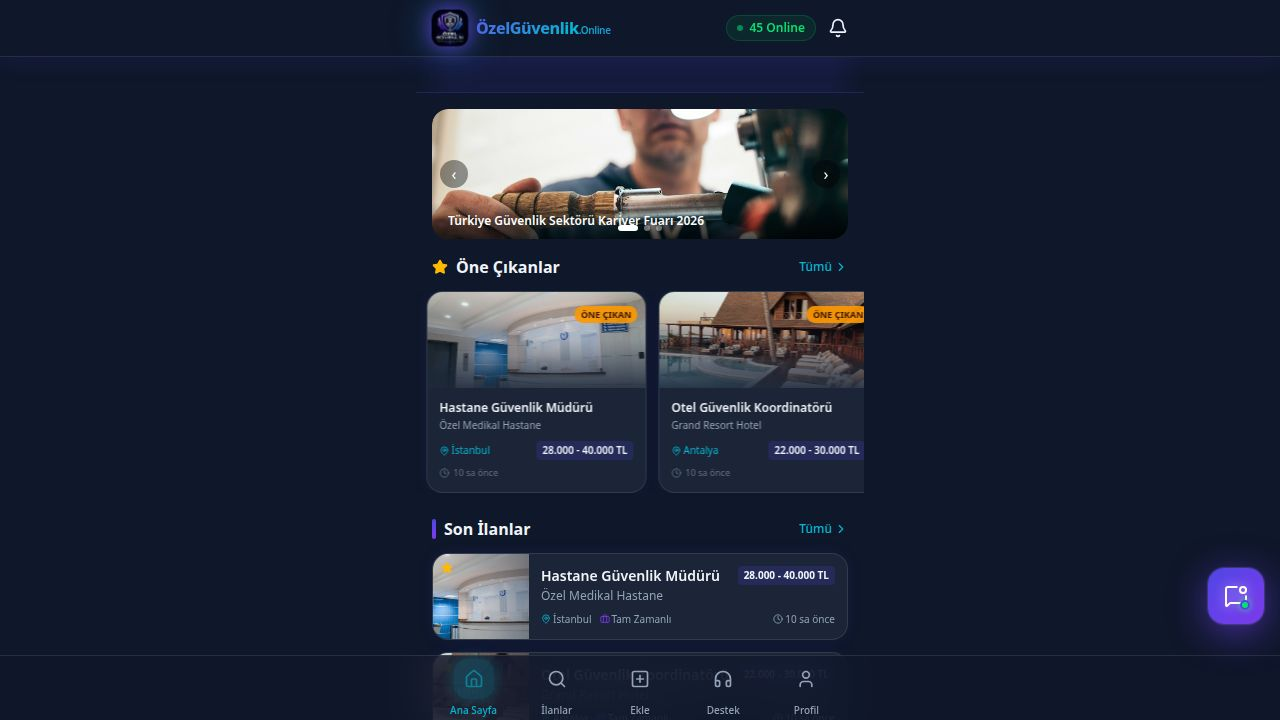
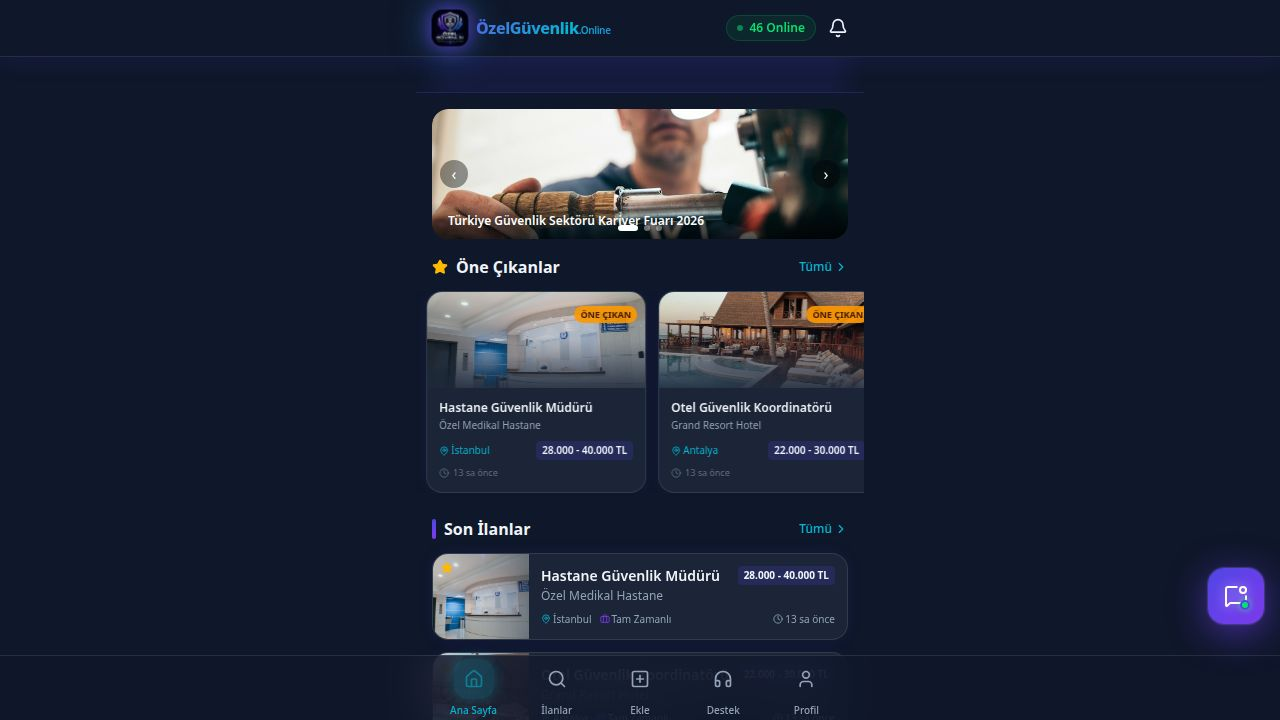
Improve PWA update behavior and automate service worker versioning
Update index.html to register service worker with updateViaCache: "none" and add logic to reload the page when SW_UPDATED message is received. Modify sw.js to use a dynamic cache version placeholder. Add a Vite plugin in vite.config.ts to inject the current timestamp into the service worker during development and build processes, ensuring automatic versioning and cache busting.

Replit-Commit-Author: Agent
Replit-Commit-Session-Id: 4cdea2e6-d00a-4730-9c5d-47da9fec826f
Replit-Commit-Checkpoint-Type: full_checkpoint
Replit-Commit-Event-Id: 1982fe15-26cf-4e11-bd79-f82715835c14
Replit-Commit-Screenshot-Url: https://storage.googleapis.com/screenshot-production-us-central1/65e8e92a-d1c8-454b-961b-f1bf0231ebd1/4cdea2e6-d00a-4730-9c5d-47da9fec826f/irlz9Zs
Replit-Helium-Checkpoint-Created: true

diff --git a/artifacts/ozel-guvenlik/vite.config.ts b/artifacts/ozel-guvenlik/vite.config.ts
@@ -2,6 +2,7 @@ import { defineConfig } from "vite";
 import react from "@vitejs/plugin-react";
 import tailwindcss from "@tailwindcss/vite";
 import path from "path";
+import fs from "node:fs";
 import runtimeErrorOverlay from "@replit/vite-plugin-runtime-error-modal";
 
 const rawPort = process.env.PORT;
@@ -26,9 +27,30 @@ if (!basePath) {
   );
 }
 
+const swVersionPlugin = {
+  name: "sw-version-inject",
+  configureServer(server: { middlewares: { use: (path: string, fn: (req: unknown, res: { setHeader: (k: string, v: string) => void; end: (s: string) => void }, next: () => void) => void) => void } }) {
+    server.middlewares.use("/sw.js", (_req, res) => {
+      const swPath = path.resolve(import.meta.dirname, "public/sw.js");
+      const content = fs.readFileSync(swPath, "utf-8").replace("__CACHE_VERSION__", Date.now().toString());
+      res.setHeader("Content-Type", "application/javascript");
+      res.setHeader("Cache-Control", "no-store, no-cache, must-revalidate");
+      res.end(content);
+    });
+  },
+  closeBundle() {
+    const outPath = path.resolve(import.meta.dirname, "dist/public/sw.js");
+    if (fs.existsSync(outPath)) {
+      const content = fs.readFileSync(outPath, "utf-8").replace("__CACHE_VERSION__", Date.now().toString());
+      fs.writeFileSync(outPath, content);
+    }
+  },
+};
+
 export default defineConfig({
   base: basePath,
   plugins: [
+    swVersionPlugin,
     react(),
     tailwindcss(),
     runtimeErrorOverlay(),

diff --git a/artifacts/ozel-guvenlik/public/sw.js b/artifacts/ozel-guvenlik/public/sw.js
@@ -1,14 +1,21 @@
-const CACHE_NAME = "ozelguvenlik-v5";
+const CACHE_NAME = "ozelguvenlik-__CACHE_VERSION__";
 const STATIC = ["/", "/manifest.json", "/icon-192.png", "/icon-512.png"];
 
 self.addEventListener("install", e => {
-  e.waitUntil(caches.open(CACHE_NAME).then(c => c.addAll(STATIC)).then(() => self.skipWaiting()));
+  e.waitUntil(
+    caches.open(CACHE_NAME)
+      .then(c => c.addAll(STATIC))
+      .then(() => self.skipWaiting())
+  );
 });
 
 self.addEventListener("activate", e => {
   e.waitUntil(
-    caches.keys().then(keys => Promise.all(keys.filter(k => k !== CACHE_NAME).map(k => caches.delete(k))))
+    caches.keys()
+      .then(keys => Promise.all(keys.filter(k => k !== CACHE_NAME).map(k => caches.delete(k))))
       .then(() => self.clients.claim())
+      .then(() => self.clients.matchAll({ type: "window" }))
+      .then(clients => clients.forEach(c => c.postMessage({ type: "SW_UPDATED" })))
   );
 });
 

diff --git a/artifacts/ozel-guvenlik/index.html b/artifacts/ozel-guvenlik/index.html
@@ -32,7 +32,16 @@
     <script>
       if ("serviceWorker" in navigator) {
         window.addEventListener("load", () => {
-          navigator.serviceWorker.register("/sw.js").catch(() => {});
+          navigator.serviceWorker.register("/sw.js", { updateViaCache: "none" })
+            .then(reg => {
+              reg.update();
+              navigator.serviceWorker.addEventListener("message", event => {
+                if (event.data?.type === "SW_UPDATED") {
+                  window.location.reload();
+                }
+              });
+            })
+            .catch(() => {});
         });
       }
     </script>